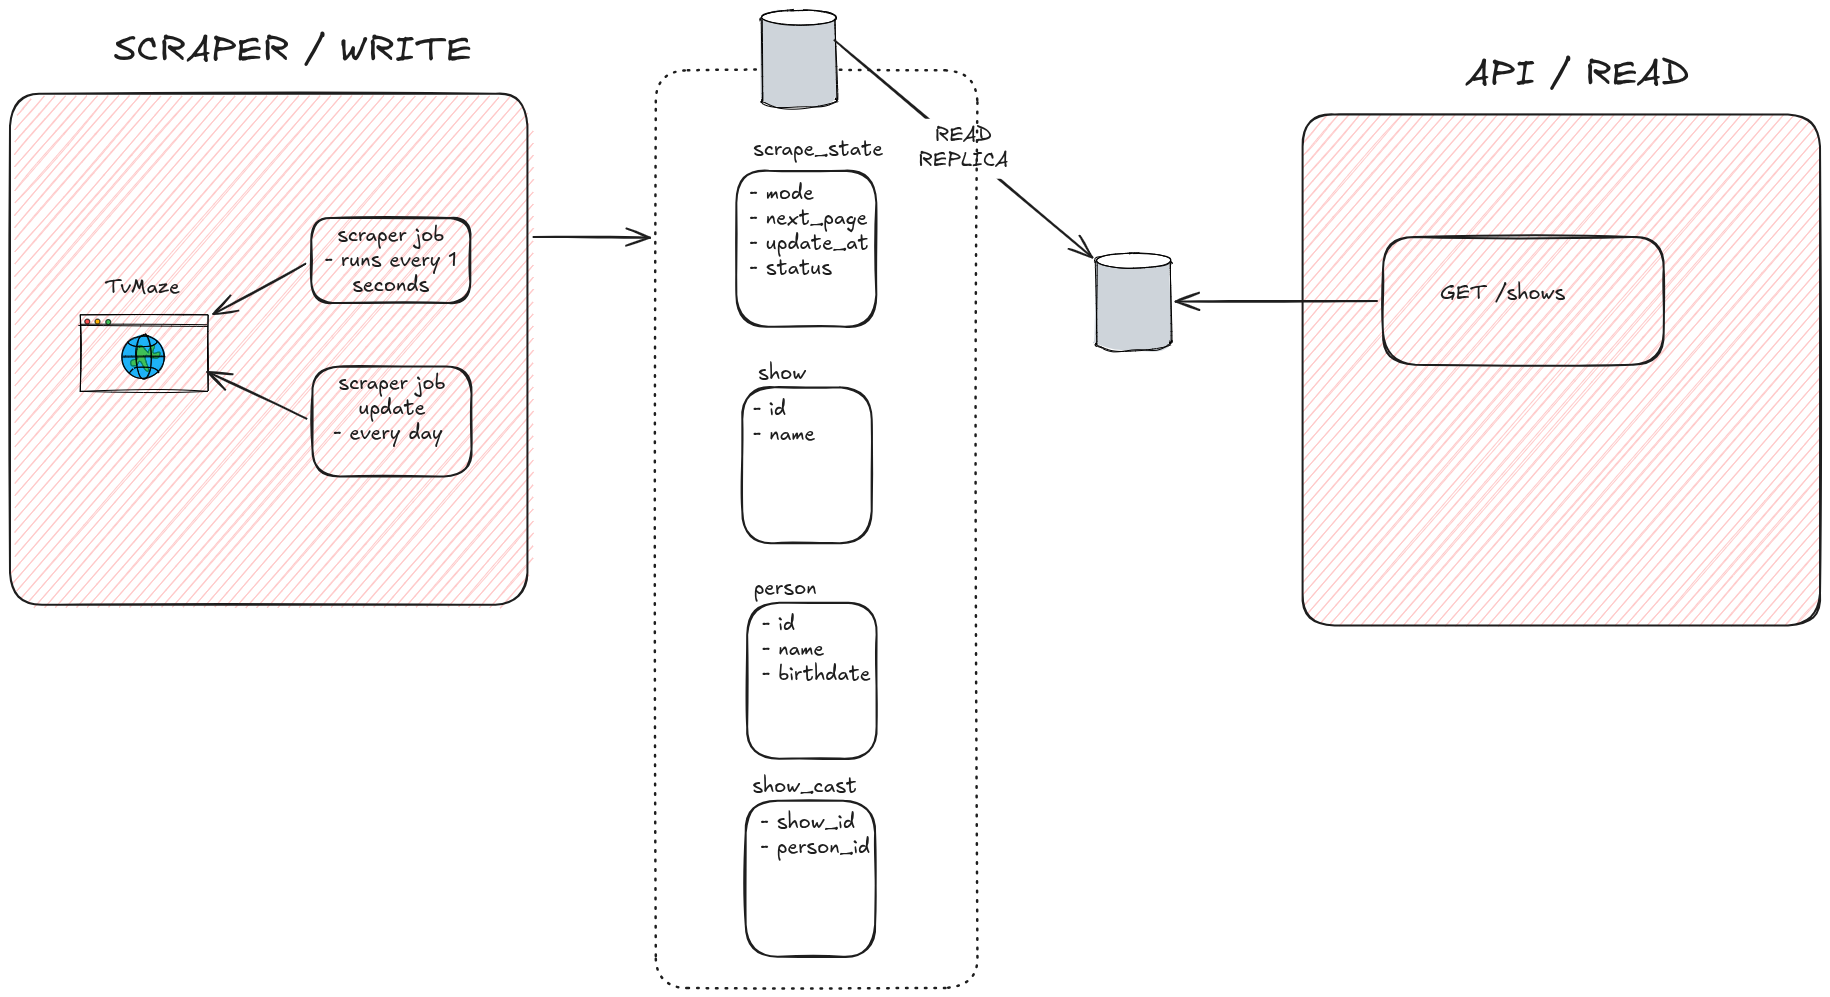
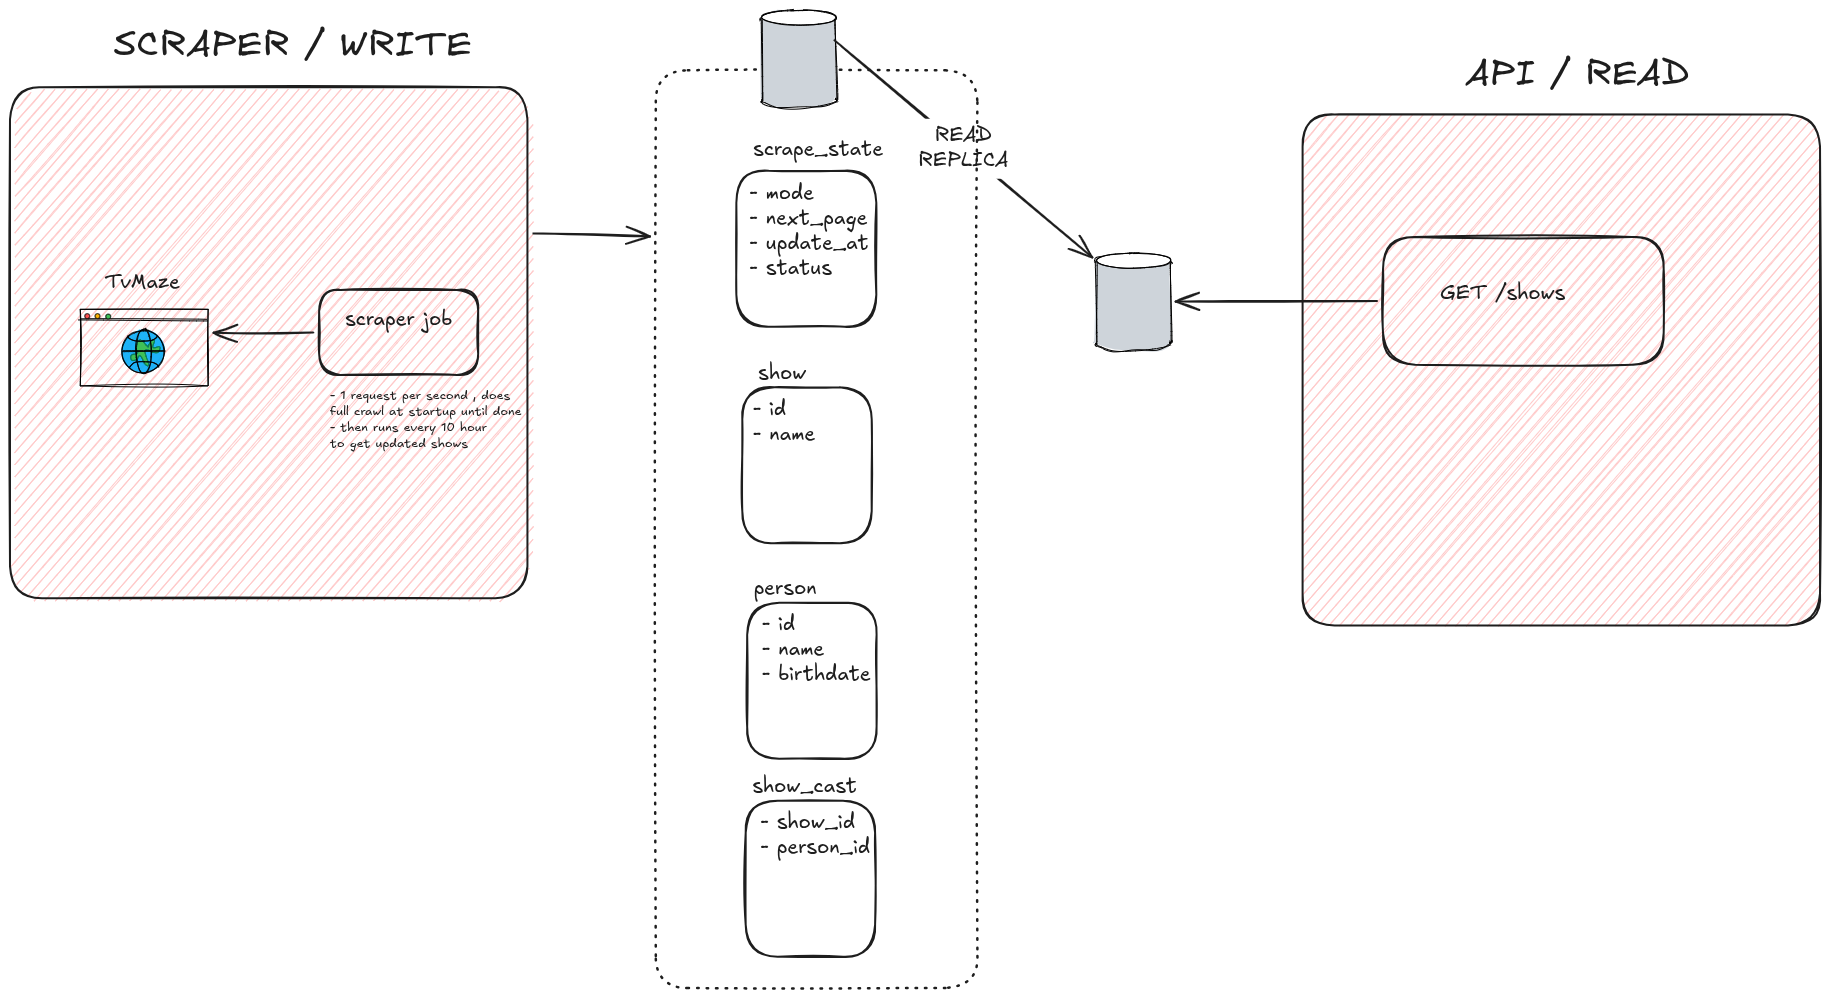
Update architecture diagram and run incremental sync every 10 hours

Changed region(s): [[0.0, 0.0311, 0.3738, 0.6219]]

diff --git a/src/main/kotlin/com/tvmaze/scraper/config/ScrapeProperties.kt b/src/main/kotlin/com/tvmaze/scraper/config/ScrapeProperties.kt
@@ -8,5 +8,5 @@ data class ScrapeProperties(
     val baseUrl: String = "https://api.tvmaze.com",
     val requestDelayMs: Long = 600,
     val maxRetries: Int = 5,
-    val incrementalIntervalMs: Long = 3_600_000,
+    val incrementalIntervalMs: Long = 36_000_000,
 )
